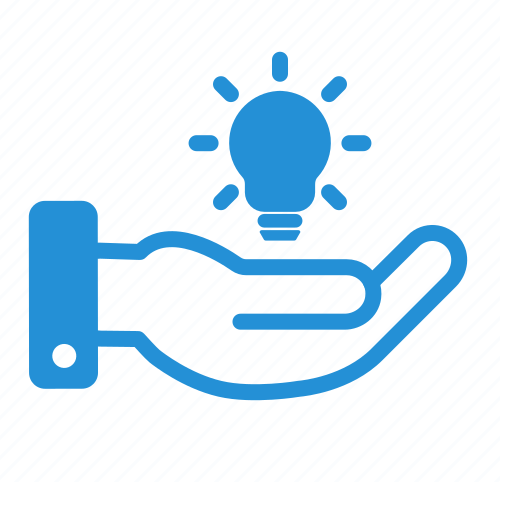
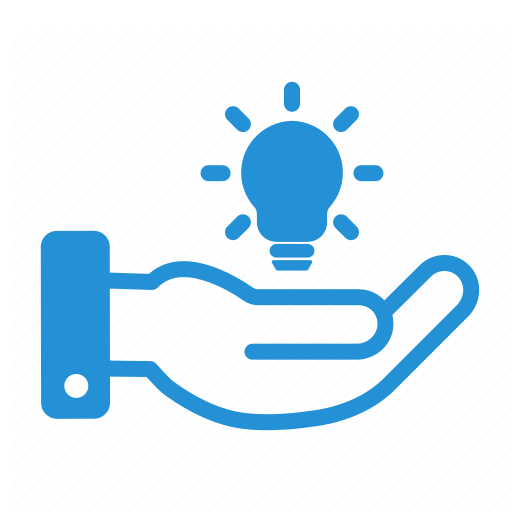
image verandert na hover op één van de navlinks

Changed region(s): [[0.0312, 0.0938, 0.9375, 0.8438]]

diff --git a/index.html b/index.html
@@ -28,7 +28,7 @@
 <!-- IT CONSULTANCY ROW-->
 <div class="IT-Consultancy-row">
     <div id="IC_C1">
-        <img src="../images/lanworks_icon_1.png" alt="" class="responsiveImg">
+        <img src="../images/lanworks_icon_1.png" alt="" class="responsiveImg" id="logo1">
     </div>
 
     <div id="IC_C2">
@@ -79,5 +79,6 @@
 </div>
 
 <script src="./responsiveNavbar.js"></script>
+<script src="./logo1.js"></script>
 </body>
 </html>

diff --git a/logo1.js b/logo1.js
@@ -1,0 +1,12 @@
+//on hover, change url of image
+
+const afbeelding = document.getElementById('logo1');
+const knop = document.getElementById('linksLinkB');
+
+knop.addEventListener("mouseover", function (){
+        afbeelding.src='../images/lanworks_icon_1_hover.png';
+});
+
+knop.onmouseleave = function(){
+    afbeelding.src='../images/lanworks_icon_1.png';
+}

diff --git a/index.css b/index.css
@@ -81,6 +81,14 @@ h1:hover{
    width: 100vw;
 }
 
+#logo1{
+    transition: opacity 4s ease-out;
+    -webkit-transition: opacity 4s ease-out;
+    -moz-transition: opacity 4s ease-out;
+    -ms-transition: opacity 4s ease-out;
+    -o-transition: opacity 4s ease-out;
+}
+
 #IC_C1{
     display: flex;
     justify-content: center;
